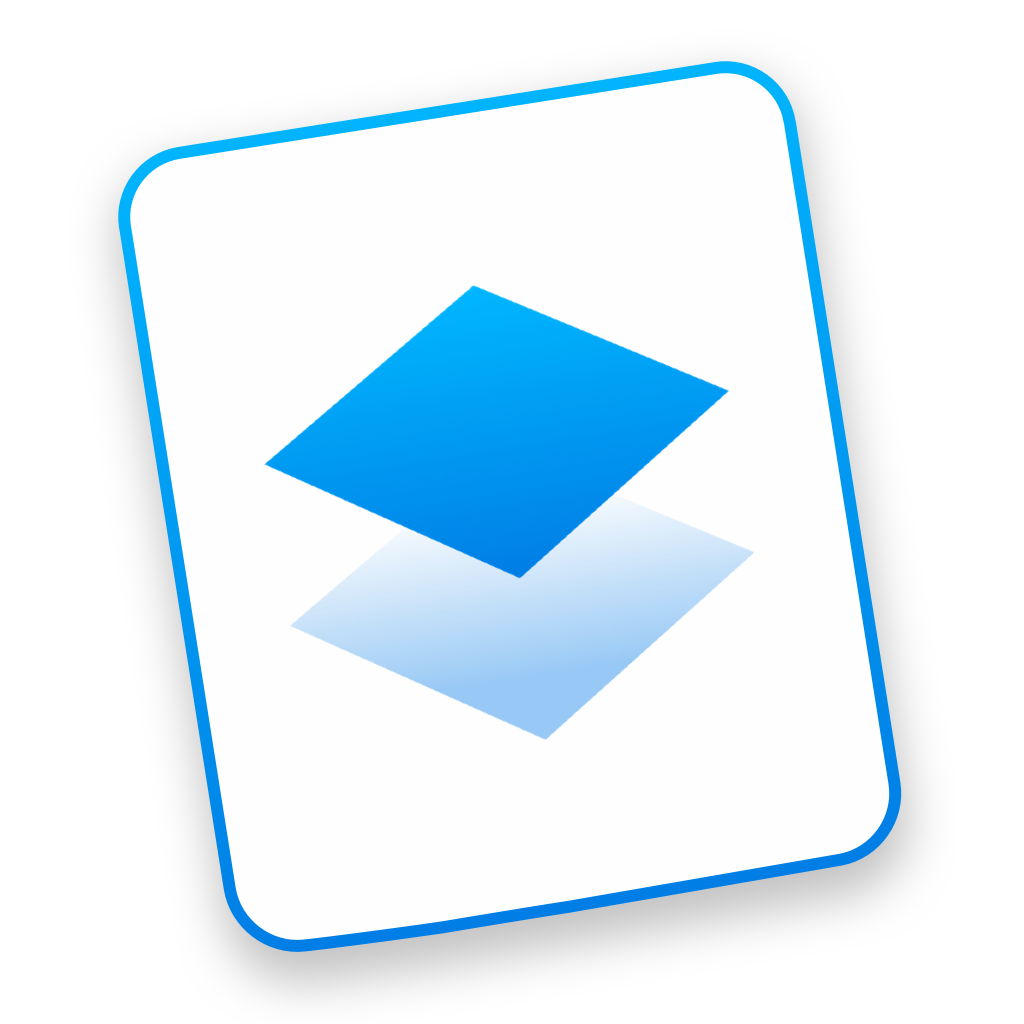
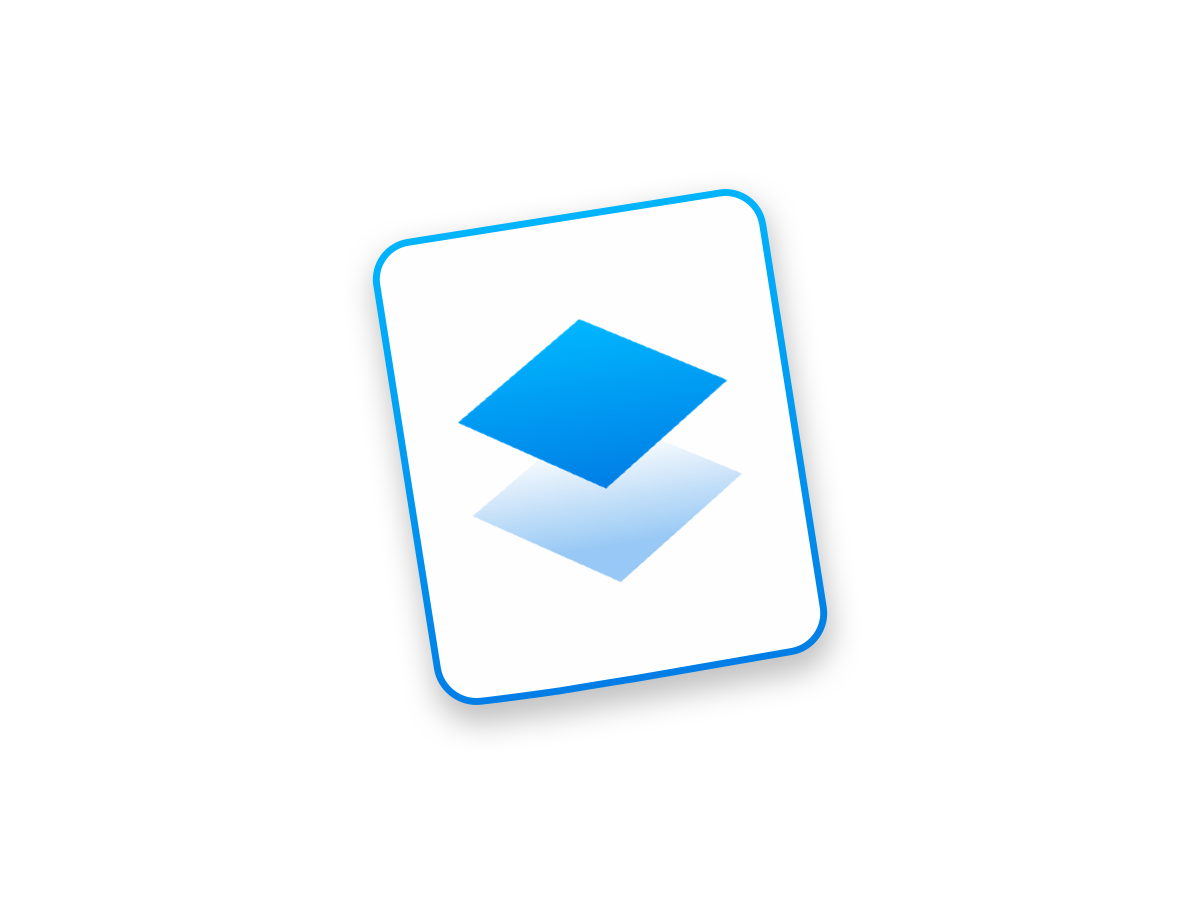
readme

Changed region(s): [[0.25, 0.1867, 0.75, 0.8089], [0.0938, 0.0622, 0.9062, 0.9644]]

diff --git a/README.md b/README.md
@@ -1,0 +1,13 @@
+# Dropbox Paper for Mac 
+App wrapper around [paper.dropbox.com](https://paper.dropbox.com). Generated with and [nativefier](https://github.com/jiahaog/nativefier).
+
+> [Download latest release](https://github.com/LukaMarr/dropbox-paper/raw/master/dropbox-paper-1.0.0.zip)<br>
+
+![Dropbox Paper for Mac Icon](icon.png) <br>
+
+This is not an official Dropbox product. Paper logo by [Dropbox](https://medium.com/dropbox-design). <br> 
+There are two Dropbox Paper unofficial Mac apps - [Dropbox Paper Mac by mituoh](hhttps://github.com/mituoh/Dropbox-Paper-Mac)
+- [Paper for Mac by williambout](https://github.com/williambout/paper-for-mac)
+
+Why I made this? I'm using Paper a lot for writing and Dropbox Paper Mac app by mituoh popped up on Product hunt so I downloaded it, but the icon was made with Dropbox logo and I didn't like that, because there is beautiful original Paper logo out there. Next, I found out that it was made just with this thing called nativefier. I had no idea what it is, so I checked it out, and it turns out it's a really cool thing where you basically make a native Mac/Windows/Linux app just by entering an url. I installed node.js and nativefier, made new Mac app icon, and voila. 
+
